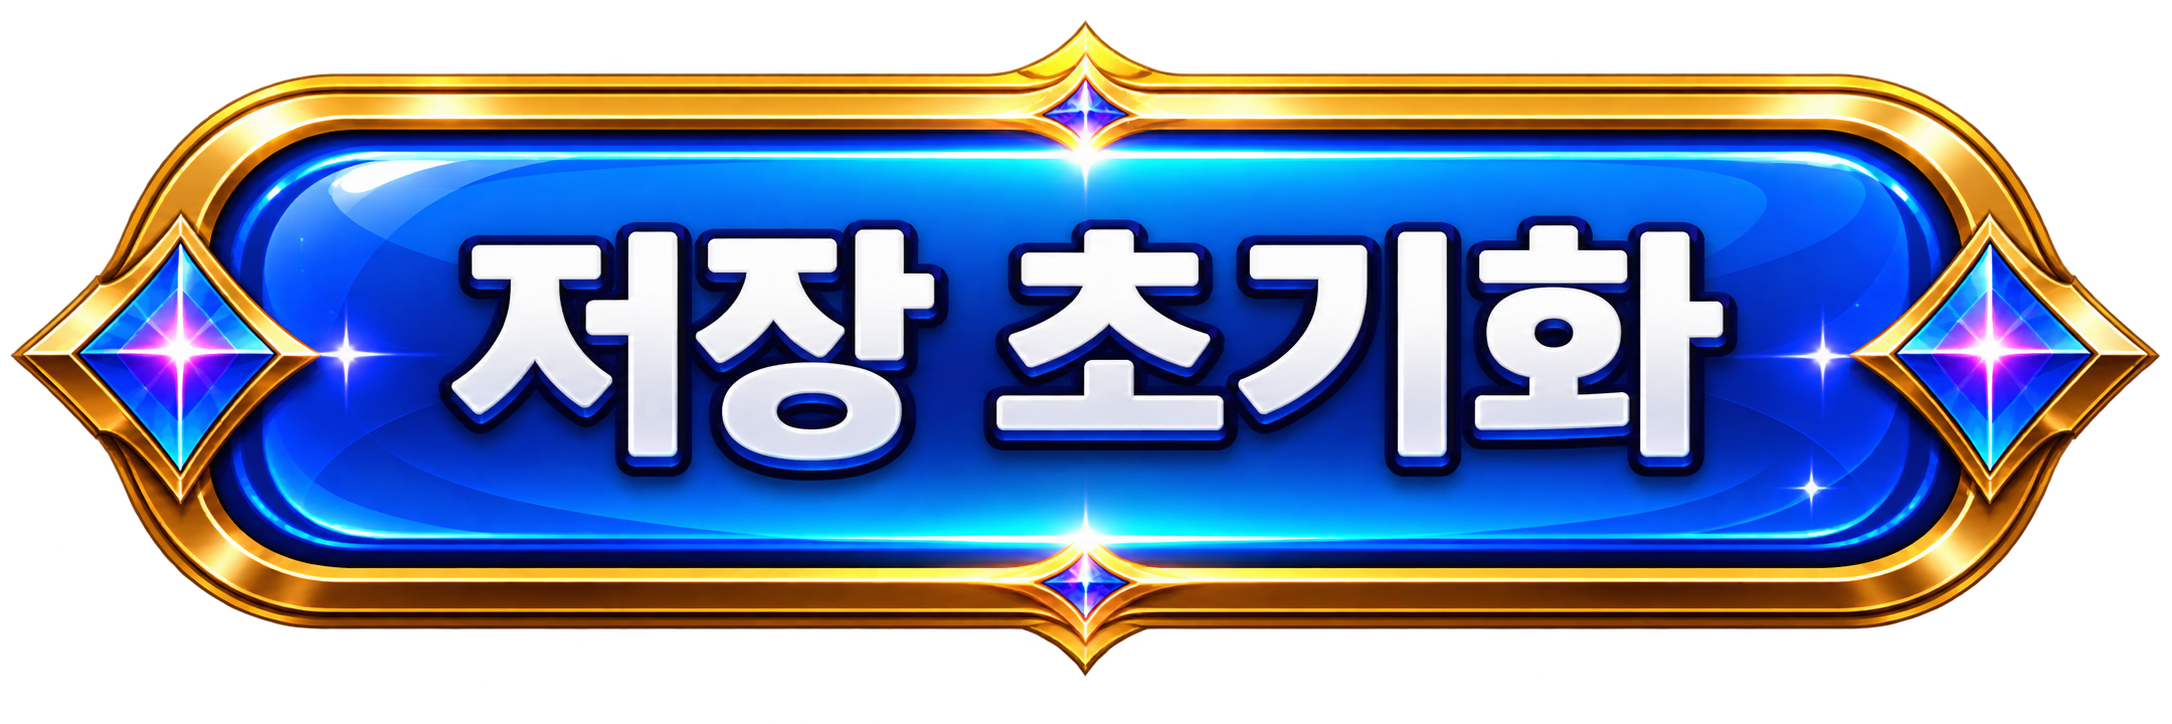
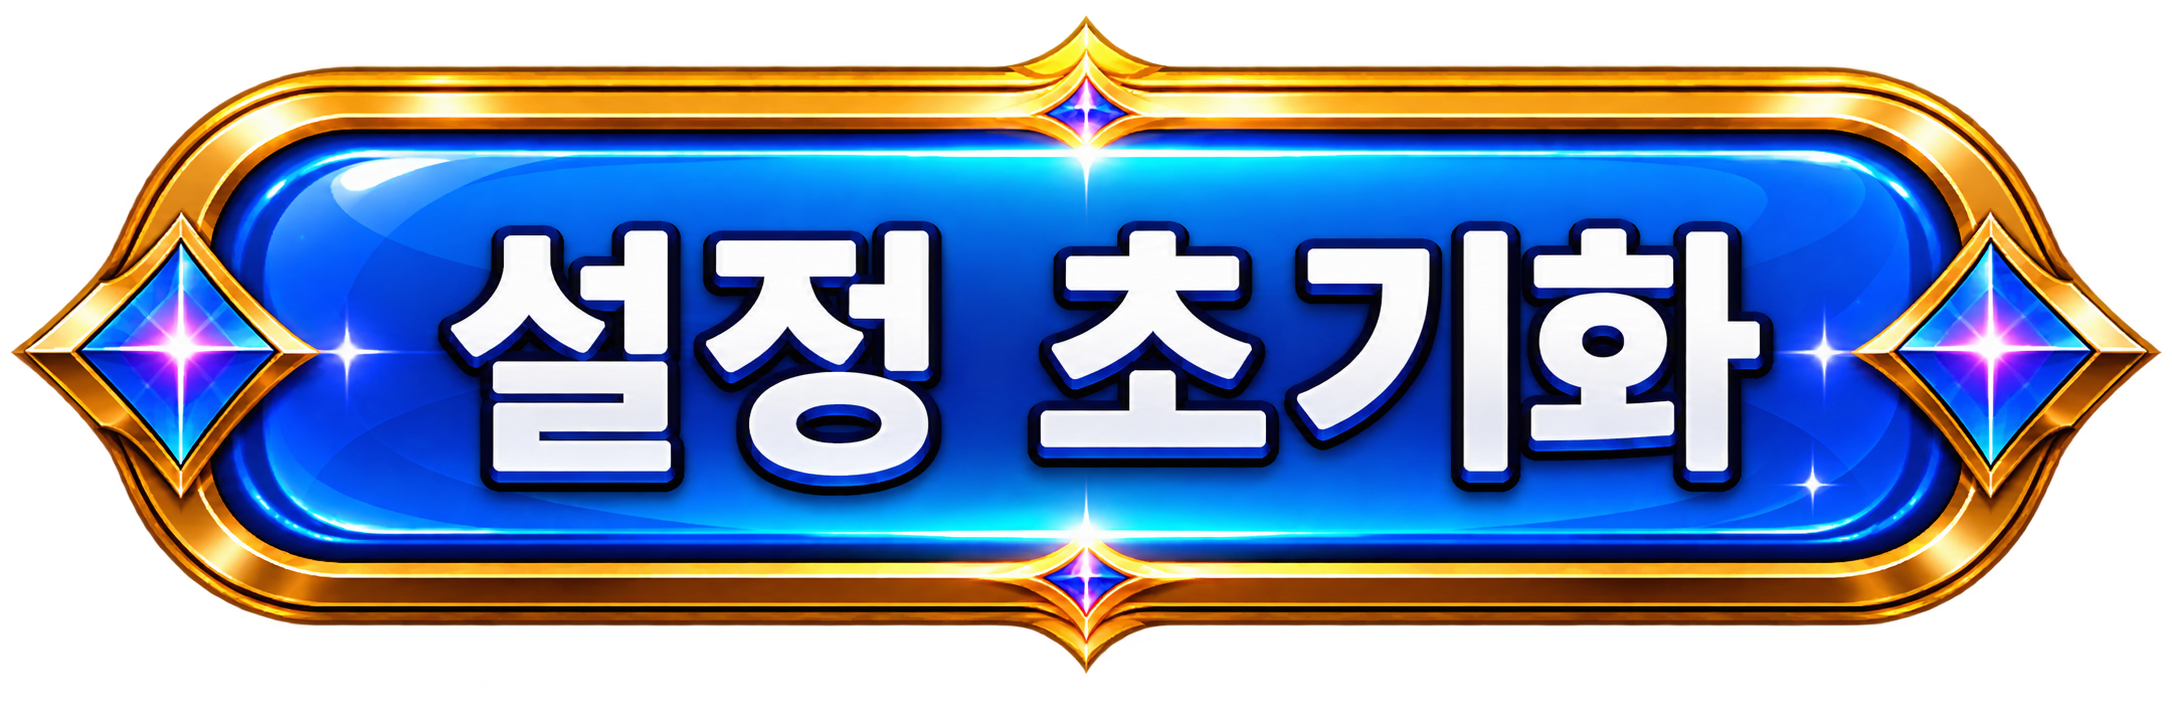
Update settings reset button

diff --git a/src/game/scenes/SettingsScene.ts b/src/game/scenes/SettingsScene.ts
@@ -49,13 +49,19 @@ export class SettingsScene extends BaseScene {
       this.reducedMotion = next.reducedMotion;
       this.motionText?.setText(this.statusLabel(next.reducedMotion));
     });
-    this.addImageButton({ x: 604, y: 682, width: 430 }, background, PRIME_POP_SETTINGS_ASSETS.resetSave.key, () => {
-      SaveManager.reset();
-      this.scene.restart();
-    });
-    this.addImageButton({ x: 1084, y: 682, width: 430 }, background, PRIME_POP_SETTINGS_ASSETS.unlockAll.key, () => {
+    this.addImageButton({ x: 604, y: 682, width: 430 }, background, PRIME_POP_SETTINGS_ASSETS.unlockAll.key, () => {
       SaveManager.update((data) => ({ ...data, unlockedLevel: levels.length }));
       this.scene.start("LevelSelectScene");
+    });
+    this.addImageButton({ x: 1084, y: 682, width: 430 }, background, PRIME_POP_SETTINGS_ASSETS.resetSave.key, () => {
+      SaveManager.update((data) => ({
+        ...data,
+        muted: false,
+        musicVolume: 0.35,
+        sfxVolume: 0.7,
+        reducedMotion: false,
+      }));
+      this.scene.restart();
     });
     this.addImageButton({ x: 836, y: 846, width: 420 }, background, PRIME_POP_SETTINGS_ASSETS.menu.key, () => {
       this.scene.start("MenuScene");

diff --git a/src/game/config/primePopAssets.ts b/src/game/config/primePopAssets.ts
@@ -67,7 +67,7 @@ export const PRIME_POP_SETTINGS_ASSETS = {
     key: "number-break-settings-toggle-reduce-motion",
     path: "assets/number-break/settings/btn_toggle_reduce_motion.png",
   },
-  resetSave: { key: "number-break-settings-reset-save", path: "assets/number-break/settings/btn_reset_save.png" },
+  resetSave: { key: "number-break-settings-reset-save", path: "assets/number-break/settings/btn_reset_save.png?v=20260819-1325" },
   unlockAll: { key: "number-break-settings-unlock-all", path: "assets/number-break/settings/btn_unlock_all.png?v=20260819-1205" },
   menu: { key: "number-break-settings-menu", path: "assets/number-break/settings/btn_menu.png" },
 };
